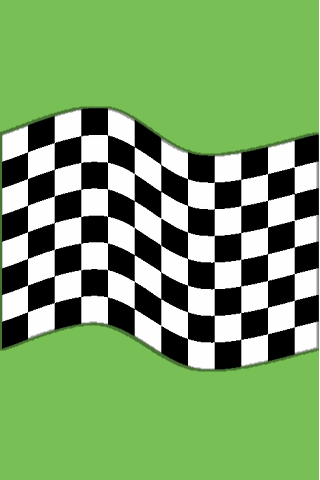
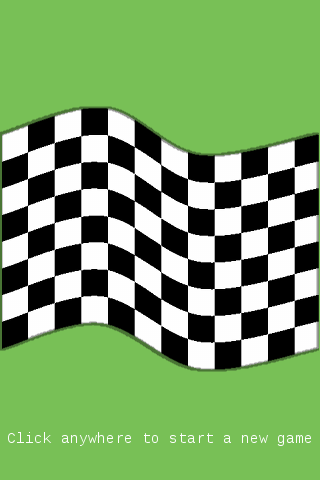
Add ability to start new hand from within application. (Only when hand is over) In function Tableau::OnInit(), move allocation of PileSurfaces array to correct section. In function Game::OnLoop(), remove static boolean "GameOver" and replace condition (!GameOver) with (Scene == SCENE_GAME_PLAY). Rem

diff --git a/src/Tableau.cpp b/src/Tableau.cpp
@@ -150,18 +150,6 @@ void	Tableau::OnInit			(void)
 {
 	// Free our surfaces
 
-	for (int i = 0; i < MILEAGE_PILES; ++i)
-	{
-		if (CardCount[i])
-		{
-			for (int j = 0; j < CardCount[i]; ++j)
-			{
-				if (!PileSurfaces[i][j])
-					PileSurfaces[i][j] = Card::GetImageFromValue(i + MILEAGE_OFFSET);
-			}
-		}
-	}
-
 	if (BattleSurface)
 	{
 		SDL_FreeSurface(BattleSurface);
@@ -178,6 +166,18 @@ void	Tableau::OnInit			(void)
 
 	BattleSurface = Card::GetImageFromValue(TopCard);
 	LimitSurface = Card::GetImageFromValue(LimitCard);
+
+	for (int i = 0; i < MILEAGE_PILES; ++i)
+	{
+		if (CardCount[i])
+		{
+			for (int j = 0; j < CardCount[i]; ++j)
+			{
+				if (!PileSurfaces[i][j])
+					PileSurfaces[i][j] = Card::GetImageFromValue(i + MILEAGE_OFFSET);
+			}
+		}
+	}
 
 	for (int i = 0; i < SAFETY_COUNT; ++i)
 	{
@@ -358,6 +358,40 @@ bool	Tableau::OnRender		(SDL_Surface * Surface, Uint8 PlayerIndex, bool Force)
 	}
 
 	return false;
+}
+
+void	Tableau::Reset			(void)
+{
+	for (int i = 0; i < MILEAGE_PILES; ++i)
+	{
+		for (int j = 0; j < MAX_PILE_SIZE; ++j)
+		{
+			if (PileSurfaces[i][j])
+			{
+				SDL_FreeSurface(PileSurfaces[i][j]);
+				PileSurfaces[i][j] = 0;
+			}
+		}
+
+		CardCount[i] = 0;
+	}
+
+	for (int i = 0; i < SAFETY_COUNT; ++i)
+	{
+		if (SafetySurfaces[i])
+		{
+			SDL_FreeSurface(SafetySurfaces[i]);
+			SafetySurfaces[i] = 0;
+		}
+
+		CoupFourres[i] = Safeties[i] = false;
+	}
+
+	OldLimitCard = LimitCard = OldTopCard = TopCard = CARD_NULL_NULL;
+
+	Dirty = true;
+
+	Mileage = 0;
 }
 
 /* Private */

diff --git a/src/Game.cpp b/src/Game.cpp
@@ -279,6 +279,15 @@ void		Game::OnClick		(int X, int Y)
 		}
 	}
 
+	else if (Scene == SCENE_GAME_OVER)
+	{
+		//Start new game
+		Reset();
+		LastScene = Scene;
+		Scene = SCENE_GAME_PLAY;
+	}
+
+
 	else if (Scene == SCENE_LEARN)
 	{
 		// Return to main menu on click
@@ -487,14 +496,10 @@ bool		Game::OnInit		(void)
 
 void		Game::OnLoop		(void)
 {
-	static	bool GameOver = false;
-	
-	if (!GameOver)
+	if (Scene == SCENE_GAME_PLAY)
 	{
 		if (EndOfGame())
 		{
-			GameOver = true;
-
 			for (int i = 0; i < PLAYER_COUNT; ++i)
 				Scores[i] = GetScore(i);
 
@@ -660,6 +665,40 @@ void		Game::OnRender		(void)
 		printf("Flipped window.");
 		SDL_Flip(Window);
 	}
+}
+
+void			Game::Reset			(void)
+{
+	//Reset my stuff
+	if (SourceDeck)
+		SourceDeck->Shuffle();
+	else
+		SourceDeck = new Deck;
+
+	if (SourceDeck)
+		OldDeckCount = DeckCount = SourceDeck->CardsLeft();
+
+	for (int i = 0; i < PLAYER_COUNT; ++i)
+		Scores[i] = 0;
+
+	Dirty = true;
+	Extended = false;
+
+	Current = 0;
+
+	OldDiscardTop = DiscardTop = CARD_NULL_NULL;
+
+	//Reset down the chain
+	for (int i = 0; i < PLAYER_COUNT; ++i)
+	{
+		Players[i].Reset();
+		if (SourceDeck)
+			Players[i].SetSource(SourceDeck);
+	}
+
+	//Odds and ends
+	if (SourceDeck)
+		OldDeckCount = DeckCount = SourceDeck->CardsLeft();
 }
 
 

diff --git a/src/Player.cpp b/src/Player.cpp
@@ -198,6 +198,15 @@ bool	Player::ReceiveHazard	(Uint8 Value)
 	return false;
 }
 
+void	Player::Reset			(void)
+{
+	SourceDeck = 0;
+	QualifiedCoupFourre = 0xFF;
+
+	PlayerHand.Reset();
+	MyTableau.Reset();
+}
+
 void	Player::SetSource		(Deck * ArgSource)
 {
 	// TODO: Move initial drawing of cards to Game so we can stagger between players

diff --git a/src/Tableau.h b/src/Tableau.h
@@ -31,6 +31,7 @@ public:
 	void		OnInit			(void);
 	bool		OnRender		(SDL_Surface * Surface, Uint8 PlayerIndex, bool Force = false);
 	void		OnPlay			(Uint8 Value, bool CoupFourre, bool SpeedLimit);
+	void		Reset			(void);
 private:
 	/* Methods */
 	void		SetTopCard		(Uint8 Value);

diff --git a/src/Player.h b/src/Player.h
@@ -32,6 +32,7 @@ public:
 	bool		OnRender		(SDL_Surface * Surface, Uint8 PlayerIndex, bool Force = false);
 	bool		Pop				(Uint8 Index);
 	bool		ReceiveHazard	(Uint8 Value);
+	void		Reset			(void);
 	void		SetSource		(Deck * ArgSource);
 	void		UnPop			(Uint8 Index);
 private:

diff --git a/src/Hand.cpp b/src/Hand.cpp
@@ -192,6 +192,17 @@ bool	Hand::Pop		(Uint8 Index)
 	return true;
 }
 
+void	Hand::Reset		(void)
+{
+	for (int i = 0; i < HAND_SIZE; ++i)
+	{
+		ThisHand[i].Discard();
+		Popped[i] = false;
+	}
+
+	Dirty = true;
+}
+
 void	Hand::UnPop		(Uint8 Index)
 {
 	if (Index < HAND_SIZE)

diff --git a/src/Hand.h b/src/Hand.h
@@ -21,6 +21,7 @@ public:
 	void		OnInit		(void);
 	bool		OnRender	(SDL_Surface * Surface, bool Force = false);
 	bool		Pop			(Uint8 Index);
+	void		Reset		(void);
 	void		UnPop		(Uint8 Index);
 private:
 	Card		ThisHand[HAND_SIZE];

diff --git a/src/Game.h b/src/Game.h
@@ -23,6 +23,7 @@ public:
 	void		OnLoop			(void);
 	void		OnPlay			(Uint8 Value);
 	void		OnRender		(void);
+	void		Reset			(void);
 
 private:
 	/* Methods */
